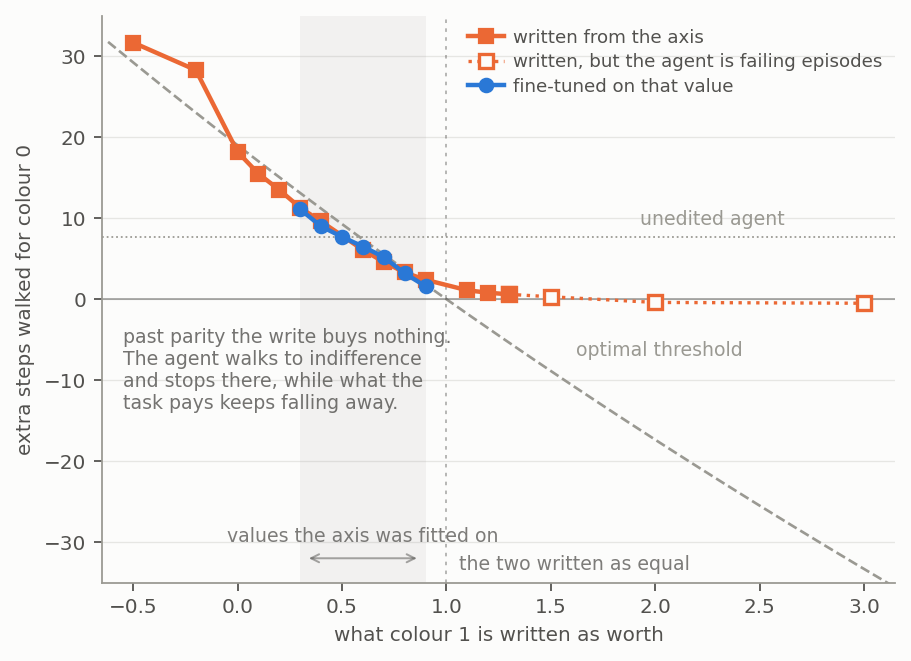
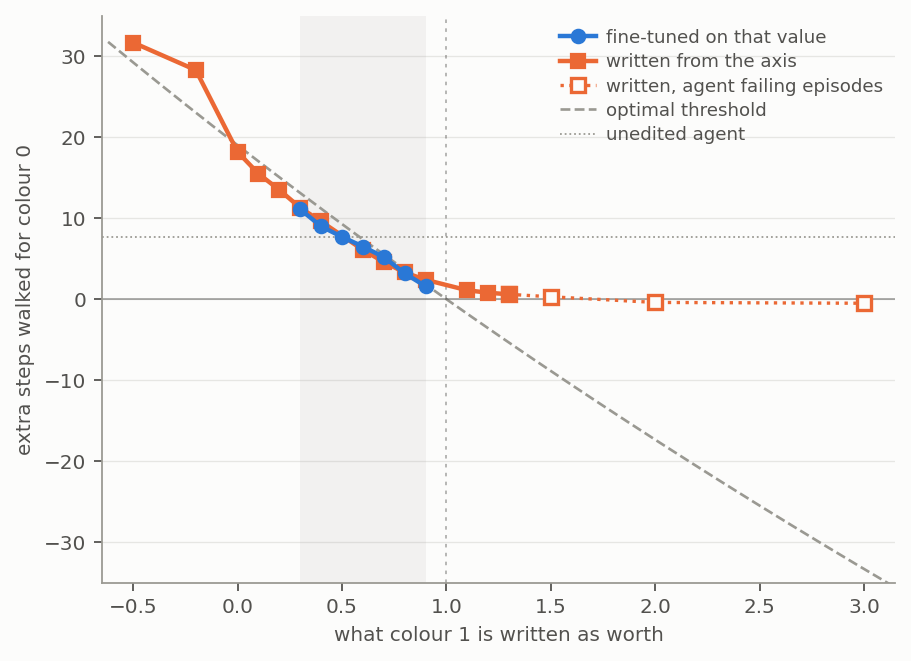
Take the small print off figure 12
Five floating annotations for three data series was more print than panel. The
two reference lines move into the legend, where they cost one line each instead
of a label placed to dodge the data, and everything else comes out: the shaded
band over the fitted values and the rule at parity stay as marks and get their
one sentence in the text instead.

What is left is one legend and the shapes. The elbow at parity was the thing the
paragraph was pointing at, and it is not less visible for the paragraph being
gone.

diff --git a/figures/make_figures.py b/figures/make_figures.py
@@ -351,8 +351,8 @@ def fig_written_ood():
 
     grid = np.linspace(-0.62, 3.12, 300)
     ax.plot(grid, np.log((c + grid) / (c + other)) / np.log(gamma),
-            color=MUTED, lw=1.2, ls="--", zorder=1)
-    ax.axhline(base, color=MUTED, lw=0.8, ls=":", zorder=0)
+            color=MUTED, lw=1.2, ls="--", zorder=1, label="optimal threshold")
+    ax.axhline(base, color=MUTED, lw=0.8, ls=":", zorder=0, label="unedited agent")
     ax.axhline(0, color=INK2, lw=0.8, alpha=0.5, zorder=1)
 
     pts = sorted(d["written_ood"], key=lambda r: r["value"])
@@ -368,26 +368,17 @@ def fig_written_ood():
                        key=lambda r: r["value"])
         ax.plot([r["value"] for r in chain], [r["steps"] for r in chain],
                 "s:", color=ORANGE, lw=1.5, ms=6, mfc=SURFACE, mew=1.5, zorder=3,
-                label="written, but the agent is failing episodes" if side is not None and side[0]["value"] > ok[-1]["value"] else None)
+                label="written, agent failing episodes" if side is not None and side[0]["value"] > ok[-1]["value"] else None)
 
     ax.plot([r["value"] for r in d["trained"]], [r["steps"] for r in d["trained"]],
             "o-", color=BLUE, lw=2, ms=6, zorder=5, label="fine-tuned on that value")
 
     # The elbow lands exactly here, which is the point of drawing it: the write
     # keeps working while colour 0 is still the richer of the two and stops the
-    # moment it is not.
+    # moment it is not. Left unlabelled -- the rule at parity and the band over
+    # the fitted values are one sentence each in the text, and spelling them out
+    # on the panel cost more in small print than they returned.
     ax.axvline(other, color=INK2, lw=0.8, ls=(0, (2, 3)), alpha=0.45, zorder=1)
-    ax.annotate("the two written as equal", xy=(1.06, -33.4), color=INK2,
-                fontsize=8.5, alpha=0.75)
-
-    ax.annotate("optimal threshold", xy=(1.62, -7.0), color=MUTED, fontsize=8.5)
-    ax.annotate("values the axis was fitted on", xy=(0.6, -30.0), color=INK2,
-                fontsize=8.5, alpha=0.75, ha="center")
-    ax.annotate("", xy=(0.32, -32.0), xytext=(0.88, -32.0),
-                arrowprops=dict(arrowstyle="<->", color=INK2, alpha=0.5, lw=0.9))
-    ax.annotate("unedited agent", xy=(2.62, 9.2), color=MUTED, fontsize=8.5, ha="right")
-    ax.annotate("past parity the write buys nothing.\nThe agent walks to indifference\nand stops there, while what the\ntask pays keeps falling away.",
-                xy=(-0.55, -13.5), color=INK2, fontsize=8.5, alpha=0.8)
 
     ax.set_xlabel("what colour 1 is written as worth")
     ax.set_ylabel("extra steps walked for colour 0")
@@ -396,8 +387,14 @@ def fig_written_ood():
     ax.spines[["top", "right"]].set_visible(False)
     ax.grid(axis="y", color=MUTED, alpha=0.22, lw=0.6)
     ax.set_axisbelow(True)
-    leg = ax.legend(loc="upper right", frameon=False, fontsize=8.2, handletextpad=0.5,
-                    borderpad=0.2, labelspacing=0.35)
+    handles, labels = ax.get_legend_handles_labels()
+    order = [labels.index(k) for k in
+             ["fine-tuned on that value", "written from the axis",
+              "written, agent failing episodes",
+              "optimal threshold", "unedited agent"]]
+    leg = ax.legend([handles[i] for i in order], [labels[i] for i in order],
+                    loc="upper right", frameon=False, fontsize=8.2,
+                    handletextpad=0.5, borderpad=0.2, labelspacing=0.35)
     for t in leg.get_texts():
         t.set_color(INK2)
     save(fig, "fig12_written_ood")
